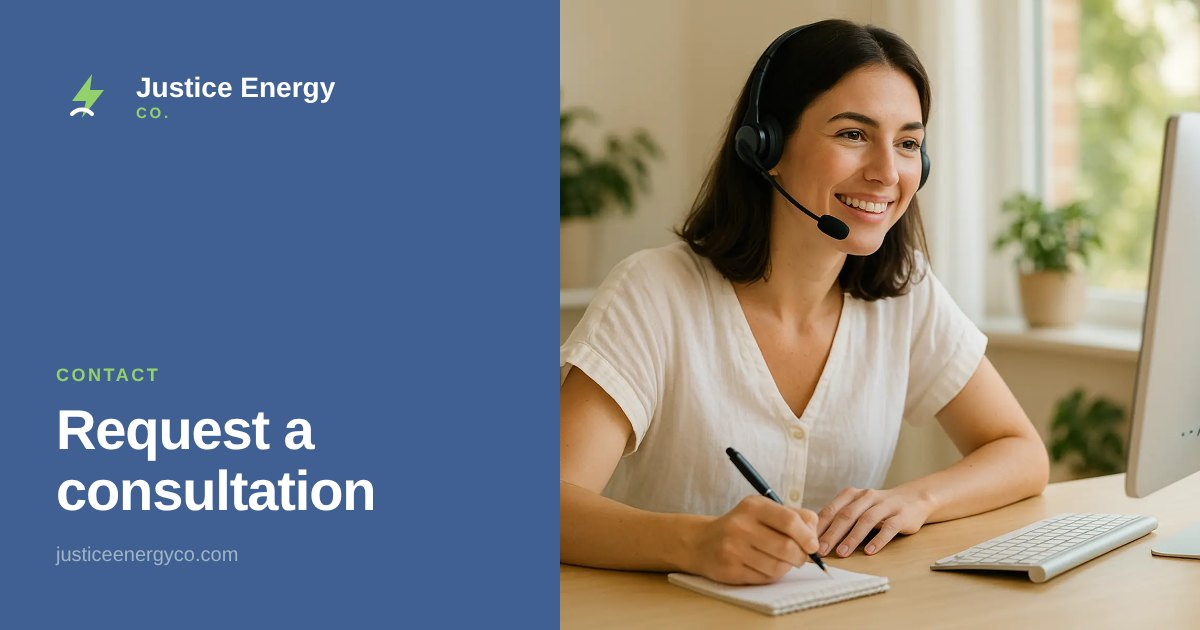
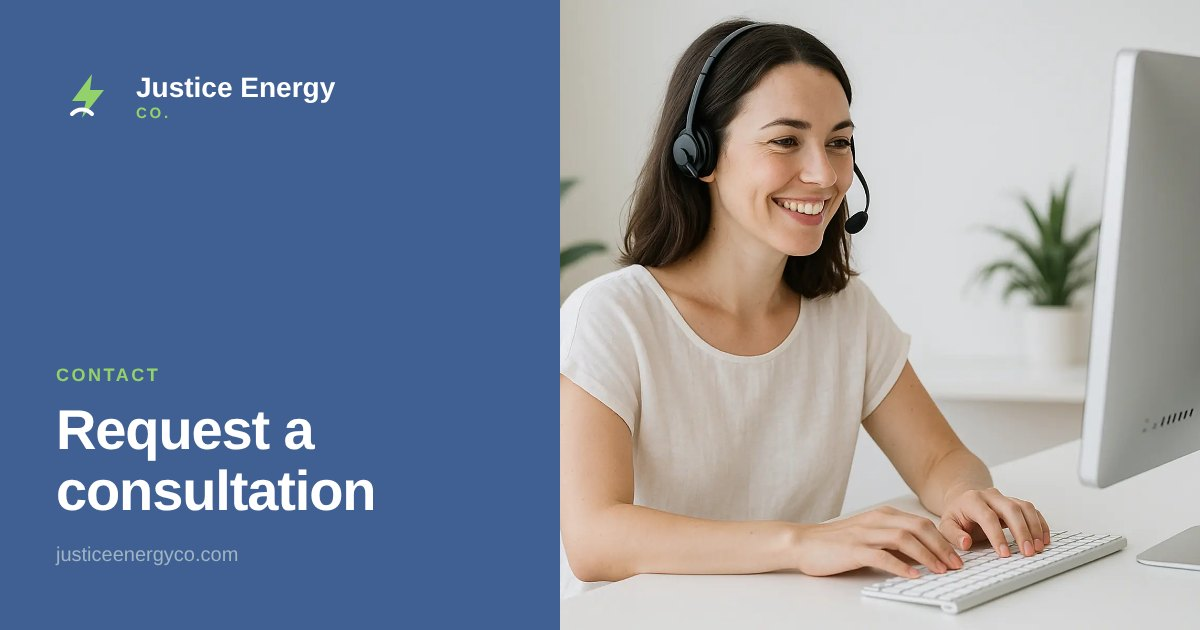
Contact photo: typing at the computer instead of writing; neutral colors
Claude-Session: https://claude.ai/code/session_01WJBbNDQLUfZvQvpC8s5baG

diff --git a/src/content/photo-prompts.js b/src/content/photo-prompts.js
@@ -55,8 +55,8 @@ module.exports = {
       alt: 'Technician in a navy work shirt shaking hands with a smiling homeowner in front of a house',
     },
     contact: {
-      prompt: 'Smiling young Caucasian woman with dark brown hair, working as a customer-service representative, dressed for summer in a light, airy short-sleeve white linen blouse, wearing a light headset at a bright, tidy office desk, talking on a call while taking notes, a desktop computer monitor on a stand with a wireless keyboard in front of her (no laptop), plants and natural summer light in the background, candid.',
-      alt: 'Customer-service representative on a call at a bright office desk',
+      prompt: 'Smiling young Caucasian woman with dark brown hair, working as a customer-service representative, dressed for summer in a light, airy short-sleeve white linen blouse, wearing a light headset at a bright, tidy office desk, talking on a call while typing on a wireless keyboard with both hands on the keys, looking at a desktop computer monitor on a stand (no laptop, no notepad, no pen), plants in the background, bright clean neutral daylight with accurate white balance, crisp whites and cool-neutral tones, no yellow or warm color cast, candid.',
+      alt: 'Customer-service representative on a headset call, typing at a computer in a bright office',
     },
     privacy: {
       prompt: 'Closed laptop and a notebook on a tidy light-wood home-office desk with a small plant and a cup of coffee, soft morning daylight, minimal and calm.',

diff --git a/dist/about/index.html b/dist/about/index.html
@@ -195,7 +195,7 @@
           <a class="btn btn-call btn-lg" href="tel:+18665048989"><svg viewBox="0 0 24 24" fill="none" stroke="currentColor" stroke-width="2" stroke-linecap="round" stroke-linejoin="round" aria-hidden="true" focusable="false"><path d="M5 4h4l2 5-2.5 1.5a11 11 0 0 0 5 5L15 13l5 2v4a2 2 0 0 1-2 2A16 16 0 0 1 3 6a2 2 0 0 1 2-2"/></svg> (866) 504-8989</a>
         </div>
       </div>
-      <div class="cta-media"><img src="/img/slot/contact.webp" srcset="/img/slot/contact-800.webp 800w, /img/slot/contact.webp 1600w" sizes="(min-width: 1024px) 50vw, 100vw" alt="Customer-service representative on a call at a bright office desk" width="1600" height="1200" loading="lazy" decoding="async"></div>
+      <div class="cta-media"><img src="/img/slot/contact.webp" srcset="/img/slot/contact-800.webp 800w, /img/slot/contact.webp 1600w" sizes="(min-width: 1024px) 50vw, 100vw" alt="Customer-service representative on a headset call, typing at a computer in a bright office" width="1600" height="1200" loading="lazy" decoding="async"></div>
     </div>
   </div>
 </section>

diff --git a/dist/index.html b/dist/index.html
@@ -252,7 +252,7 @@
           <a class="btn btn-call btn-lg" href="tel:+18665048989"><svg viewBox="0 0 24 24" fill="none" stroke="currentColor" stroke-width="2" stroke-linecap="round" stroke-linejoin="round" aria-hidden="true" focusable="false"><path d="M5 4h4l2 5-2.5 1.5a11 11 0 0 0 5 5L15 13l5 2v4a2 2 0 0 1-2 2A16 16 0 0 1 3 6a2 2 0 0 1 2-2"/></svg> (866) 504-8989</a>
         </div>
       </div>
-      <div class="cta-media"><img src="/img/slot/contact.webp" srcset="/img/slot/contact-800.webp 800w, /img/slot/contact.webp 1600w" sizes="(min-width: 1024px) 50vw, 100vw" alt="Customer-service representative on a call at a bright office desk" width="1600" height="1200" loading="lazy" decoding="async"></div>
+      <div class="cta-media"><img src="/img/slot/contact.webp" srcset="/img/slot/contact-800.webp 800w, /img/slot/contact.webp 1600w" sizes="(min-width: 1024px) 50vw, 100vw" alt="Customer-service representative on a headset call, typing at a computer in a bright office" width="1600" height="1200" loading="lazy" decoding="async"></div>
     </div>
   </div>
 </section>

diff --git a/dist/programs/index.html b/dist/programs/index.html
@@ -173,7 +173,7 @@
           <a class="btn btn-call btn-lg" href="tel:+18665048989"><svg viewBox="0 0 24 24" fill="none" stroke="currentColor" stroke-width="2" stroke-linecap="round" stroke-linejoin="round" aria-hidden="true" focusable="false"><path d="M5 4h4l2 5-2.5 1.5a11 11 0 0 0 5 5L15 13l5 2v4a2 2 0 0 1-2 2A16 16 0 0 1 3 6a2 2 0 0 1 2-2"/></svg> (866) 504-8989</a>
         </div>
       </div>
-      <div class="cta-media"><img src="/img/slot/contact.webp" srcset="/img/slot/contact-800.webp 800w, /img/slot/contact.webp 1600w" sizes="(min-width: 1024px) 50vw, 100vw" alt="Customer-service representative on a call at a bright office desk" width="1600" height="1200" loading="lazy" decoding="async"></div>
+      <div class="cta-media"><img src="/img/slot/contact.webp" srcset="/img/slot/contact-800.webp 800w, /img/slot/contact.webp 1600w" sizes="(min-width: 1024px) 50vw, 100vw" alt="Customer-service representative on a headset call, typing at a computer in a bright office" width="1600" height="1200" loading="lazy" decoding="async"></div>
     </div>
   </div>
 </section>

diff --git a/dist/services/hvac-heat-pumps/index.html b/dist/services/hvac-heat-pumps/index.html
@@ -202,7 +202,7 @@
           <a class="btn btn-call btn-lg" href="tel:+18665048989"><svg viewBox="0 0 24 24" fill="none" stroke="currentColor" stroke-width="2" stroke-linecap="round" stroke-linejoin="round" aria-hidden="true" focusable="false"><path d="M5 4h4l2 5-2.5 1.5a11 11 0 0 0 5 5L15 13l5 2v4a2 2 0 0 1-2 2A16 16 0 0 1 3 6a2 2 0 0 1 2-2"/></svg> (866) 504-8989</a>
         </div>
       </div>
-      <div class="cta-media"><img src="/img/slot/contact.webp" srcset="/img/slot/contact-800.webp 800w, /img/slot/contact.webp 1600w" sizes="(min-width: 1024px) 50vw, 100vw" alt="Customer-service representative on a call at a bright office desk" width="1600" height="1200" loading="lazy" decoding="async"></div>
+      <div class="cta-media"><img src="/img/slot/contact.webp" srcset="/img/slot/contact-800.webp 800w, /img/slot/contact.webp 1600w" sizes="(min-width: 1024px) 50vw, 100vw" alt="Customer-service representative on a headset call, typing at a computer in a bright office" width="1600" height="1200" loading="lazy" decoding="async"></div>
     </div>
   </div>
 </section>

diff --git a/dist/services/index.html b/dist/services/index.html
@@ -207,7 +207,7 @@
           <a class="btn btn-call btn-lg" href="tel:+18665048989"><svg viewBox="0 0 24 24" fill="none" stroke="currentColor" stroke-width="2" stroke-linecap="round" stroke-linejoin="round" aria-hidden="true" focusable="false"><path d="M5 4h4l2 5-2.5 1.5a11 11 0 0 0 5 5L15 13l5 2v4a2 2 0 0 1-2 2A16 16 0 0 1 3 6a2 2 0 0 1 2-2"/></svg> (866) 504-8989</a>
         </div>
       </div>
-      <div class="cta-media"><img src="/img/slot/contact.webp" srcset="/img/slot/contact-800.webp 800w, /img/slot/contact.webp 1600w" sizes="(min-width: 1024px) 50vw, 100vw" alt="Customer-service representative on a call at a bright office desk" width="1600" height="1200" loading="lazy" decoding="async"></div>
+      <div class="cta-media"><img src="/img/slot/contact.webp" srcset="/img/slot/contact-800.webp 800w, /img/slot/contact.webp 1600w" sizes="(min-width: 1024px) 50vw, 100vw" alt="Customer-service representative on a headset call, typing at a computer in a bright office" width="1600" height="1200" loading="lazy" decoding="async"></div>
     </div>
   </div>
 </section>

diff --git a/dist/services/led-lighting-retrofits/index.html b/dist/services/led-lighting-retrofits/index.html
@@ -202,7 +202,7 @@
           <a class="btn btn-call btn-lg" href="tel:+18665048989"><svg viewBox="0 0 24 24" fill="none" stroke="currentColor" stroke-width="2" stroke-linecap="round" stroke-linejoin="round" aria-hidden="true" focusable="false"><path d="M5 4h4l2 5-2.5 1.5a11 11 0 0 0 5 5L15 13l5 2v4a2 2 0 0 1-2 2A16 16 0 0 1 3 6a2 2 0 0 1 2-2"/></svg> (866) 504-8989</a>
         </div>
       </div>
-      <div class="cta-media"><img src="/img/slot/contact.webp" srcset="/img/slot/contact-800.webp 800w, /img/slot/contact.webp 1600w" sizes="(min-width: 1024px) 50vw, 100vw" alt="Customer-service representative on a call at a bright office desk" width="1600" height="1200" loading="lazy" decoding="async"></div>
+      <div class="cta-media"><img src="/img/slot/contact.webp" srcset="/img/slot/contact-800.webp 800w, /img/slot/contact.webp 1600w" sizes="(min-width: 1024px) 50vw, 100vw" alt="Customer-service representative on a headset call, typing at a computer in a bright office" width="1600" height="1200" loading="lazy" decoding="async"></div>
     </div>
   </div>
 </section>

diff --git a/dist/services/turf-replacement/index.html b/dist/services/turf-replacement/index.html
@@ -202,7 +202,7 @@
           <a class="btn btn-call btn-lg" href="tel:+18665048989"><svg viewBox="0 0 24 24" fill="none" stroke="currentColor" stroke-width="2" stroke-linecap="round" stroke-linejoin="round" aria-hidden="true" focusable="false"><path d="M5 4h4l2 5-2.5 1.5a11 11 0 0 0 5 5L15 13l5 2v4a2 2 0 0 1-2 2A16 16 0 0 1 3 6a2 2 0 0 1 2-2"/></svg> (866) 504-8989</a>
         </div>
       </div>
-      <div class="cta-media"><img src="/img/slot/contact.webp" srcset="/img/slot/contact-800.webp 800w, /img/slot/contact.webp 1600w" sizes="(min-width: 1024px) 50vw, 100vw" alt="Customer-service representative on a call at a bright office desk" width="1600" height="1200" loading="lazy" decoding="async"></div>
+      <div class="cta-media"><img src="/img/slot/contact.webp" srcset="/img/slot/contact-800.webp 800w, /img/slot/contact.webp 1600w" sizes="(min-width: 1024px) 50vw, 100vw" alt="Customer-service representative on a headset call, typing at a computer in a bright office" width="1600" height="1200" loading="lazy" decoding="async"></div>
     </div>
   </div>
 </section>

diff --git a/dist/services/water-conservation/index.html b/dist/services/water-conservation/index.html
@@ -202,7 +202,7 @@
           <a class="btn btn-call btn-lg" href="tel:+18665048989"><svg viewBox="0 0 24 24" fill="none" stroke="currentColor" stroke-width="2" stroke-linecap="round" stroke-linejoin="round" aria-hidden="true" focusable="false"><path d="M5 4h4l2 5-2.5 1.5a11 11 0 0 0 5 5L15 13l5 2v4a2 2 0 0 1-2 2A16 16 0 0 1 3 6a2 2 0 0 1 2-2"/></svg> (866) 504-8989</a>
         </div>
       </div>
-      <div class="cta-media"><img src="/img/slot/contact.webp" srcset="/img/slot/contact-800.webp 800w, /img/slot/contact.webp 1600w" sizes="(min-width: 1024px) 50vw, 100vw" alt="Customer-service representative on a call at a bright office desk" width="1600" height="1200" loading="lazy" decoding="async"></div>
+      <div class="cta-media"><img src="/img/slot/contact.webp" srcset="/img/slot/contact-800.webp 800w, /img/slot/contact.webp 1600w" sizes="(min-width: 1024px) 50vw, 100vw" alt="Customer-service representative on a headset call, typing at a computer in a bright office" width="1600" height="1200" loading="lazy" decoding="async"></div>
     </div>
   </div>
 </section>

diff --git a/dist/services/water-heating/index.html b/dist/services/water-heating/index.html
@@ -202,7 +202,7 @@
           <a class="btn btn-call btn-lg" href="tel:+18665048989"><svg viewBox="0 0 24 24" fill="none" stroke="currentColor" stroke-width="2" stroke-linecap="round" stroke-linejoin="round" aria-hidden="true" focusable="false"><path d="M5 4h4l2 5-2.5 1.5a11 11 0 0 0 5 5L15 13l5 2v4a2 2 0 0 1-2 2A16 16 0 0 1 3 6a2 2 0 0 1 2-2"/></svg> (866) 504-8989</a>
         </div>
       </div>
-      <div class="cta-media"><img src="/img/slot/contact.webp" srcset="/img/slot/contact-800.webp 800w, /img/slot/contact.webp 1600w" sizes="(min-width: 1024px) 50vw, 100vw" alt="Customer-service representative on a call at a bright office desk" width="1600" height="1200" loading="lazy" decoding="async"></div>
+      <div class="cta-media"><img src="/img/slot/contact.webp" srcset="/img/slot/contact-800.webp 800w, /img/slot/contact.webp 1600w" sizes="(min-width: 1024px) 50vw, 100vw" alt="Customer-service representative on a headset call, typing at a computer in a bright office" width="1600" height="1200" loading="lazy" decoding="async"></div>
     </div>
   </div>
 </section>

diff --git a/dist/contact/index.html b/dist/contact/index.html
@@ -177,7 +177,7 @@
           <li><div><strong>We talk options</strong>We discuss upgrades, next steps and programs that may apply.</div></li>
         </ol>
       </div>
-      <div class="media-frame"><img src="/img/slot/contact.webp" srcset="/img/slot/contact-800.webp 800w, /img/slot/contact.webp 1600w" sizes="(min-width: 1024px) 50vw, 100vw" alt="Customer-service representative on a call at a bright office desk" width="1600" height="1200" loading="lazy" decoding="async"></div>
+      <div class="media-frame"><img src="/img/slot/contact.webp" srcset="/img/slot/contact-800.webp 800w, /img/slot/contact.webp 1600w" sizes="(min-width: 1024px) 50vw, 100vw" alt="Customer-service representative on a headset call, typing at a computer in a bright office" width="1600" height="1200" loading="lazy" decoding="async"></div>
     </aside>
   </div>
 </section>

diff --git a/dist/thank-you/index.html b/dist/thank-you/index.html
@@ -84,7 +84,7 @@
         <a class="btn btn-outline btn-lg" href="/">Back to home</a>
       </div>
     </div>
-    <div class="hero-media"><div class="frame"><img src="/img/slot/contact.webp" srcset="/img/slot/contact-800.webp 800w, /img/slot/contact.webp 1600w" sizes="(min-width: 1024px) 50vw, 100vw" alt="Customer-service representative on a call at a bright office desk" width="1600" height="1200" fetchpriority="high" decoding="async"></div></div>
+    <div class="hero-media"><div class="frame"><img src="/img/slot/contact.webp" srcset="/img/slot/contact-800.webp 800w, /img/slot/contact.webp 1600w" sizes="(min-width: 1024px) 50vw, 100vw" alt="Customer-service representative on a headset call, typing at a computer in a bright office" width="1600" height="1200" fetchpriority="high" decoding="async"></div></div>
   </div>
 </section>
 </main>
